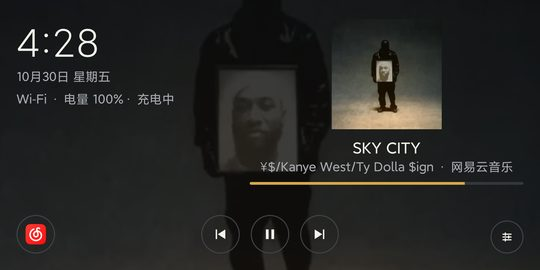
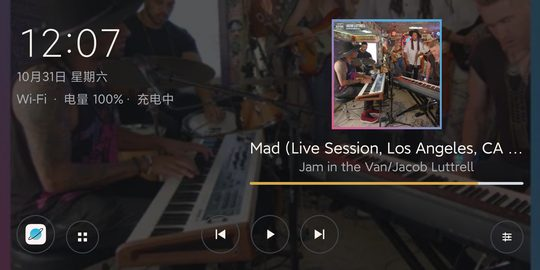
docs: document app drawer single-source guard and Xiaoyuzhou limit

diff --git a/README.md b/README.md
@@ -10,6 +10,8 @@
 
 - **可选 HOME 桌面**：安装后可先作为普通 App 使用；在设置里选择默认桌面后才接管 HOME 键，随时可以恢复 MIUI/系统桌面。
 - **紧凑媒体源入口**：首页只保留一个小的媒体源图标（默认显示最近使用的媒体 App 图标），点击弹出列表，在设备已安装的媒体应用之间切换；列表只显示已安装的媒体源，不占桌面空间，未安装的官方应用不会显示为空位。
+- **所有应用入口**：媒体源图标右侧有一个网格图标，点击打开应用抽屉，列出手机中所有可启动应用（排除本桌面自身），按名称排序，点击直接启动。
+- **单源互斥播放**：当已接入的媒体源开始播放时，自动暂停其他已接入源的播放（通过 MediaSession 暂停，不强制关闭应用）；桌面可见时立即生效，离开桌面后由进程级守卫继续执行。
 - **跨应用播放状态（可选）**：在系统设置中手动开启“通知使用权”后，读取系统暴露的 MediaSession，显示曲名、作者、封面、进度，并提供当前会话支持的播放/暂停、上一首、下一首控制；会话不支持的操作会隐藏或禁用。
 - **封面背景**：有播放封面时，用当前封面作为全屏暗化背景（复用同一张已缩放的封面图，30% 不透明度，不做模糊/动画；无播放时保持纯黑），文字对比度不受影响。
 - **Walkman 风格视觉**：近黑底 + 暖白细字时钟 + 圆形描边播放控制 + 琥珀色细进度条 + 方形封面；设置与媒体源入口使用描边/圆形按钮，保持 56dp 触控目标。
@@ -27,6 +29,10 @@
 视觉方向为 Sony Walkman 致敬：黑底、细字、圆形描边控制、琥珀色细进度条；有播放时封面同时作为全屏暗化背景，系统状态栏默认隐藏。点击左下角的媒体源图标切换不同的已安装媒体应用（当前来源会标记“当前”）：
 
 ![媒体源切换弹窗](docs/device-evidence/16-media-source-dialog.png)
+
+应用抽屉（点击媒体源图标右侧的网格图标进入）：
+
+![所有应用](docs/device-evidence/25-all-apps.jpg)
 
 更多设置页、播放卡片与恢复流程截图见 [真机验收记录](docs/device-testing-mix2s.md)。
 
@@ -81,6 +87,7 @@
 3. 如需跨应用播放状态：打开“设置 → 通知使用权”，在系统页面允许“媒体播放状态”。应用只借此调用 `MediaSessionManager.getActiveSessions()`，不读取、记录或上传通知正文；随时可以关闭，关闭后桌面降级为纯启动器。
 4. 按需调整方向、屏幕常亮，以及从已安装应用中添加其他媒体 App。
 5. 点击左下角媒体源图标，在弹出的列表中选择已安装的媒体 App；按 Home 返回媒体桌面。
+6. 点击媒体源图标右侧的网格图标可打开应用抽屉，查看并启动手机中的其他应用；按返回键回到媒体桌面。
 
 ## 恢复系统桌面
 
@@ -109,6 +116,7 @@
 - 未授予通知使用权时，不显示跨应用播放卡片，其余功能不受影响。
 - 播放状态读取以系统“通知使用权”授权为准，不依赖监听服务是否已绑定；因此应用更新、进程重建或设备重启后，只要授权仍在，无需重新切换授权即可继续显示播放状态。
 - QQ 音乐 20.9.7.9（全功能模式，需登录）已验证会暴露 MediaSession，可正常显示与控制；其“基础模式”（不同意隐私协议）不注册 MediaSession，此时媒体桌面无法显示其播放卡片。
+- 小宇宙 3.4.1 在 MIX 2S 上首次启动进入 WebView 登录页后黑屏；该机 Android System WebView 仅为 83.0（2020 版），属于系统 WebView 过旧导致的兼容性问题，需更新 WebView 或使用兼容版本后才能完成真机播放测试。
 
 ## 项目文档
 

diff --git a/docs/superpowers/specs/2026-10-29-old-android-media-shell-design.md b/docs/superpowers/specs/2026-10-29-old-android-media-shell-design.md
@@ -179,6 +179,21 @@
 - 播放卡片的作者行只显示歌手名，不再追加“ · 网易云音乐 / QQ音乐”等来源文字；来源由左下角媒体源图标表达，避免重复标注。
 - 艺术家元数据为空时作者行留空，不伪造来源名称；横屏空状态仍显示“最近使用：<App>”作为进入入口提示。
 
+### 5.11 单源互斥播放（2026-10-31 变更）
+
+- 目标：同一时间只允许一个已接入的媒体源播放；后来开始播放的源成为活跃源，其他源自动暂停。
+- 进程级守卫挂在 `MediaShellApplication`：监听系统活跃 MediaSession 变化（事件驱动、无轮询），当 ≥2 个已接入源处于 PLAYING 时，保留最新开始播放的会话，通过其余会话的 `TransportControls.pause()` 暂停；从不 force-stop 或卸载应用。
+- 桌面可见时，播放桥自身也执行同一互斥逻辑，保证切换源的 UI 立即响应；离开桌面后由进程级守卫继续。
+- 作用范围：预置的网易云音乐 / QQ 音乐 / 小宇宙 + 用户在设置中添加的其他媒体应用；未知应用不干预。
+- 若系统回收了桌面进程，守卫停止，退回 Android 音频焦点机制。
+
+### 5.12 所有应用抽屉（2026-10-31 变更）
+
+- 首页媒体源图标右侧新增 48dp 网格图标入口（56dp 触控代理），打开独立的 `AppListActivity`。
+- 列出 PackageManager 中带 LAUNCHER intent 的可启动应用，排除本桌面自身，按包名去重，按名称不区分大小写排序；点击后使用显式启动 Intent，启动失败显示提示。
+- 列表沿用暗色 Walkman 风格与“隐藏系统状态栏”偏好；首版不做搜索、分类、卸载或排序设置。
+- 不新增权限或包可见性声明，继续复用清单中已有的 LAUNCHER `<queries>`。
+
 ## 6. 数据流
 
 ### 6.1 启动官方 App

diff --git a/docs/release-checklist.md b/docs/release-checklist.md
@@ -67,6 +67,8 @@ adb shell am start -n io.github.xhzair.refresholdphone/.MainActivity
 7. “清除本地配置”只清本应用 SharedPreferences，第三方 App 数据不受影响。
 8. 锁屏/解锁、进程重建后首页可恢复，不出现崩溃循环。
 9. 默认隐藏系统状态栏；设置“隐藏系统状态栏”开关可恢复显示；顶部下滑能临时唤出状态栏。
+10. 单源互斥：先播放网易云音乐，再从 QQ 音乐或小宇宙开始播放，先前源自动暂停，只有后来源处于播放状态。
+11. 所有应用：首页网格图标可打开应用列表，能启动任意应用并返回媒体桌面。
 
 完整验收矩阵与真机证据见 `docs/device-testing-mix2s.md`。
 
